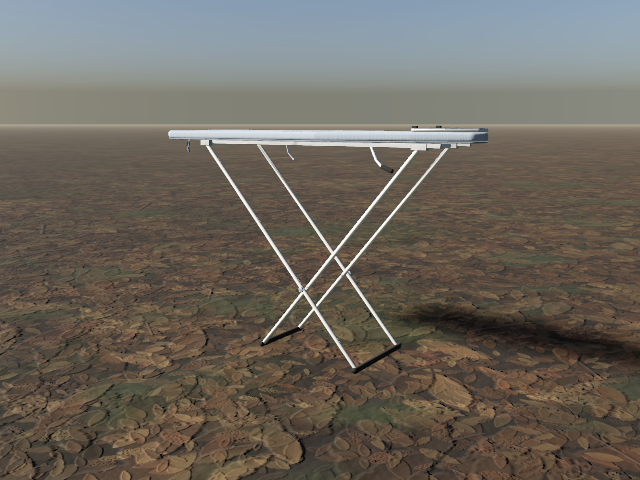
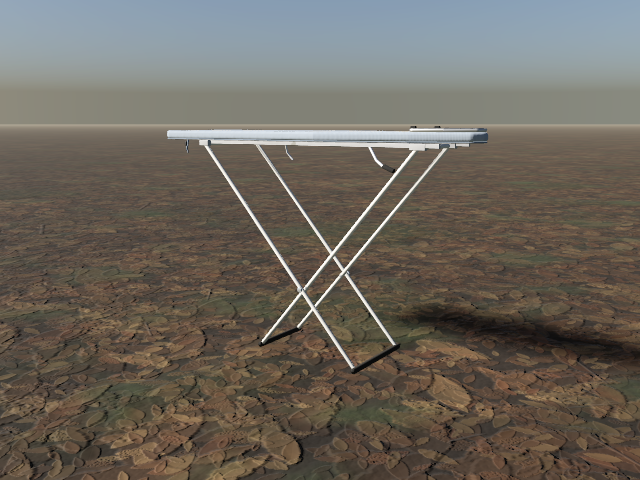
fix(props): ironing-board size to pack dimensions, sign-off

diff --git a/Sources/RealLibrary/Props/Laundry/IroningBoard.swift b/Sources/RealLibrary/Props/Laundry/IroningBoard.swift
@@ -33,7 +33,7 @@ public struct IroningBoard: RealAsset {
         }
         let halfL = size.x / 2, halfW = size.z / 2
         func outline(_ inset: Float) -> [V2] {
-            let pts: [V2] = [V2(-halfL, -halfW), V2(0.1, -halfW), V2(0.45, -0.12), V2(0.65, -0.055), V2(halfL, 0), V2(0.65, 0.055), V2(0.45, 0.12), V2(0.1, halfW), V2(-halfL, halfW)]
+            let pts: [V2] = [V2(-halfL, -halfW), V2(0.1, -halfW), V2(0.45, -0.12), V2(0.65, -0.055), V2(halfL + 0.007, 0), V2(0.65, 0.055), V2(0.45, 0.12), V2(0.1, halfW), V2(-halfL, halfW)]
             return Shape2D.offset(Shape2D.rounded(pts, radius: 0.035, segments: lite ? 2 : 4), -inset)
         }
         let flat = simd_quatf(degrees: 90, axis: V3(1, 0, 0))   // outline XY -> world XZ
@@ -100,8 +100,8 @@ public struct IroningBoard: RealAsset {
                   Xform(translation: V3(pivot.x, pivot.y, sz * (zB - 0.01)), rotation: simd_quatf(from: V3(0, 1, 0), to: V3(0, 0, sz))))
         }
         // Height lever (rod and rubber grip) under the nose end, and safety hook near the hinge.
-        tube([V3(0.3, 0.846, zB), V3(0.34, 0.80, zB + 0.03), V3(0.38, 0.78, zB + 0.06)], 0.0055, "metal.chrome")
-        box(V3(0.05, 0.016, 0.016), 0.006, "rubber.tire", at: V3(0.405, 0.775, zB + 0.07), rot: simd_quatf(degrees: -20, axis: V3(0, 0, 1)))
+        tube([V3(0.3, 0.846, zB), V3(0.34, 0.80, zB + 0.02), V3(0.38, 0.78, zB + 0.04)], 0.0055, "metal.chrome")
+        box(V3(0.05, 0.016, 0.016), 0.006, "rubber.tire", at: V3(0.405, 0.775, zB + 0.05), rot: simd_quatf(degrees: -20, axis: V3(0, 0, 1)))
         tube([V3(-0.30, 0.846, -zA), V3(-0.30, 0.8, -zA - 0.015), V3(-0.27, 0.77, -zA - 0.015)], 0.0045, "metal.chrome")
         // Light scorch near the rest.
         m.add(Prim.extrude(Shape2D.rounded([V2(0.36, -0.03), V2(0.43, -0.02), V2(0.44, 0.03), V2(0.37, 0.04)], radius: 0.015, segments: 2), depth: 0.0006, bevel: 0.0002, bevelSegments: 1, material: "fabric.canvas:8B7B5A"),
